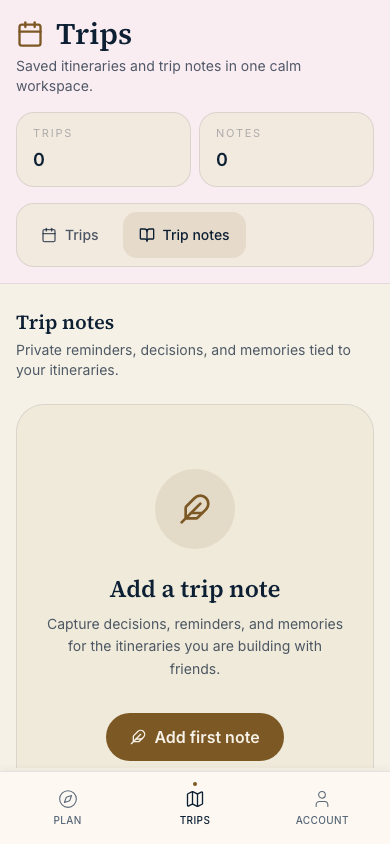
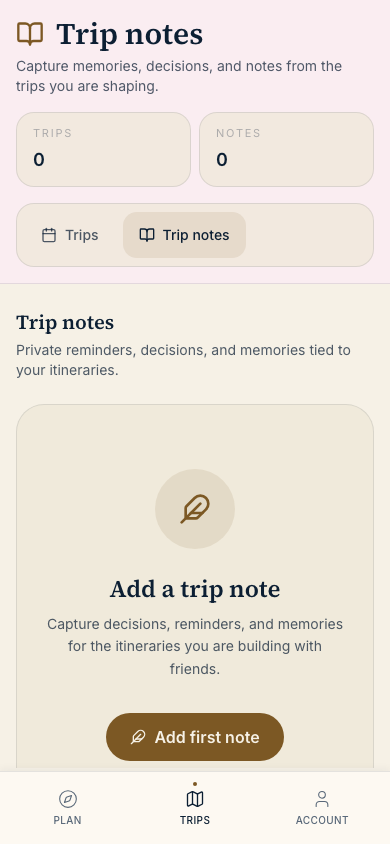
Clarify saved journal workspace heading

Changed region(s): [[0.0308, 0.0, 0.8923, 0.1232]]

diff --git a/client/app/(app)/saved/page.tsx b/client/app/(app)/saved/page.tsx
@@ -114,6 +114,11 @@ function SavedPageContent() {
   const router = useRouter()
   const searchParams = useSearchParams()
   const activeTab = normalizeTab(searchParams.get('tab'))
+  const activeTabMeta = tabs.find((tab) => tab.key === activeTab) || tabs[0]
+  const HeaderIcon = activeTabMeta.icon
+  const headerDescription = activeTab === 'journal'
+    ? 'Capture memories, decisions, and notes from the trips you are shaping.'
+    : 'Saved itineraries and trip notes in one calm workspace.'
   const [editorOpen, setEditorOpen] = useState(false)
   const [editingEntry, setEditingEntry] = useState<JournalEntry | null>(null)
   const [readingEntry, setReadingEntry] = useState<JournalEntry | null>(null)
@@ -307,11 +312,11 @@ function SavedPageContent() {
             <div className="flex flex-col gap-4 md:flex-row md:items-end md:justify-between">
               <div>
                 <h1 className="flex items-center gap-3 text-3xl font-serif font-semibold text-foreground">
-                  <Calendar className="h-7 w-7 text-[var(--brass)]" />
-                  Trips
+                  <HeaderIcon className="h-7 w-7 text-[var(--brass)]" />
+                  {activeTabMeta.label}
                 </h1>
                 <p className="mt-1 text-sm text-foreground/45">
-                  Saved itineraries and trip notes in one calm workspace.
+                  {headerDescription}
                 </p>
               </div>
               <div className="grid w-full grid-cols-2 gap-2 sm:w-auto">

diff --git a/qa/browser-surface-sweep-2026-05-27/README.md b/qa/browser-surface-sweep-2026-05-27/README.md
@@ -1,0 +1,24 @@
+# Browser Surface Sweep
+
+Generated: 2026-05-27T04:50:17.472Z
+Base URL: http://localhost:3000
+Checked: 11
+Failed: 0
+
+## Issues
+
+- none
+
+## Routes
+
+- landing: Globe.travel — Plan the trip everyone can say yes to (http://localhost:3000/) h1=["Plan the trip everyone can say yes to."] chars=1575
+- pricing: Pricing · Globe.travel (http://localhost:3000/pricing) h1=["Start free. Upgrade when the trip gets real."] chars=1495
+- planner: Globe.travel — Plan the trip everyone can say yes to (http://localhost:3000/chat) h1=["Planner"] chars=1264
+- saved: Globe.travel — Plan the trip everyone can say yes to (http://localhost:3000/saved) h1=["Trips"] chars=464
+- journal: Globe.travel — Plan the trip everyone can say yes to (http://localhost:3000/saved?tab=journal) h1=["Trip notes"] chars=472
+- account: Globe.travel — Plan the trip everyone can say yes to (http://localhost:3000/account) h1=["Account"] chars=735
+- trips: Globe.travel — Plan the trip everyone can say yes to (http://localhost:3000/saved) h1=["Trips"] chars=464
+- new-trip: Globe.travel — Plan the trip everyone can say yes to (http://localhost:3000/chat) h1=["Planner"] chars=1264
+- login: Globe.travel — Plan the trip everyone can say yes to (http://localhost:3000/login) h1=["Welcome back."] chars=523
+- signup: Globe.travel — Plan the trip everyone can say yes to (http://localhost:3000/signup) h1=["Create your account."] chars=571
+- public-share: 5 Days in Athens, Greece, mid‑September · Globe.travel (http://localhost:3000/t/x3m2c8cnws) h1=["5 Days in Athens, Greece"] chars=2846
